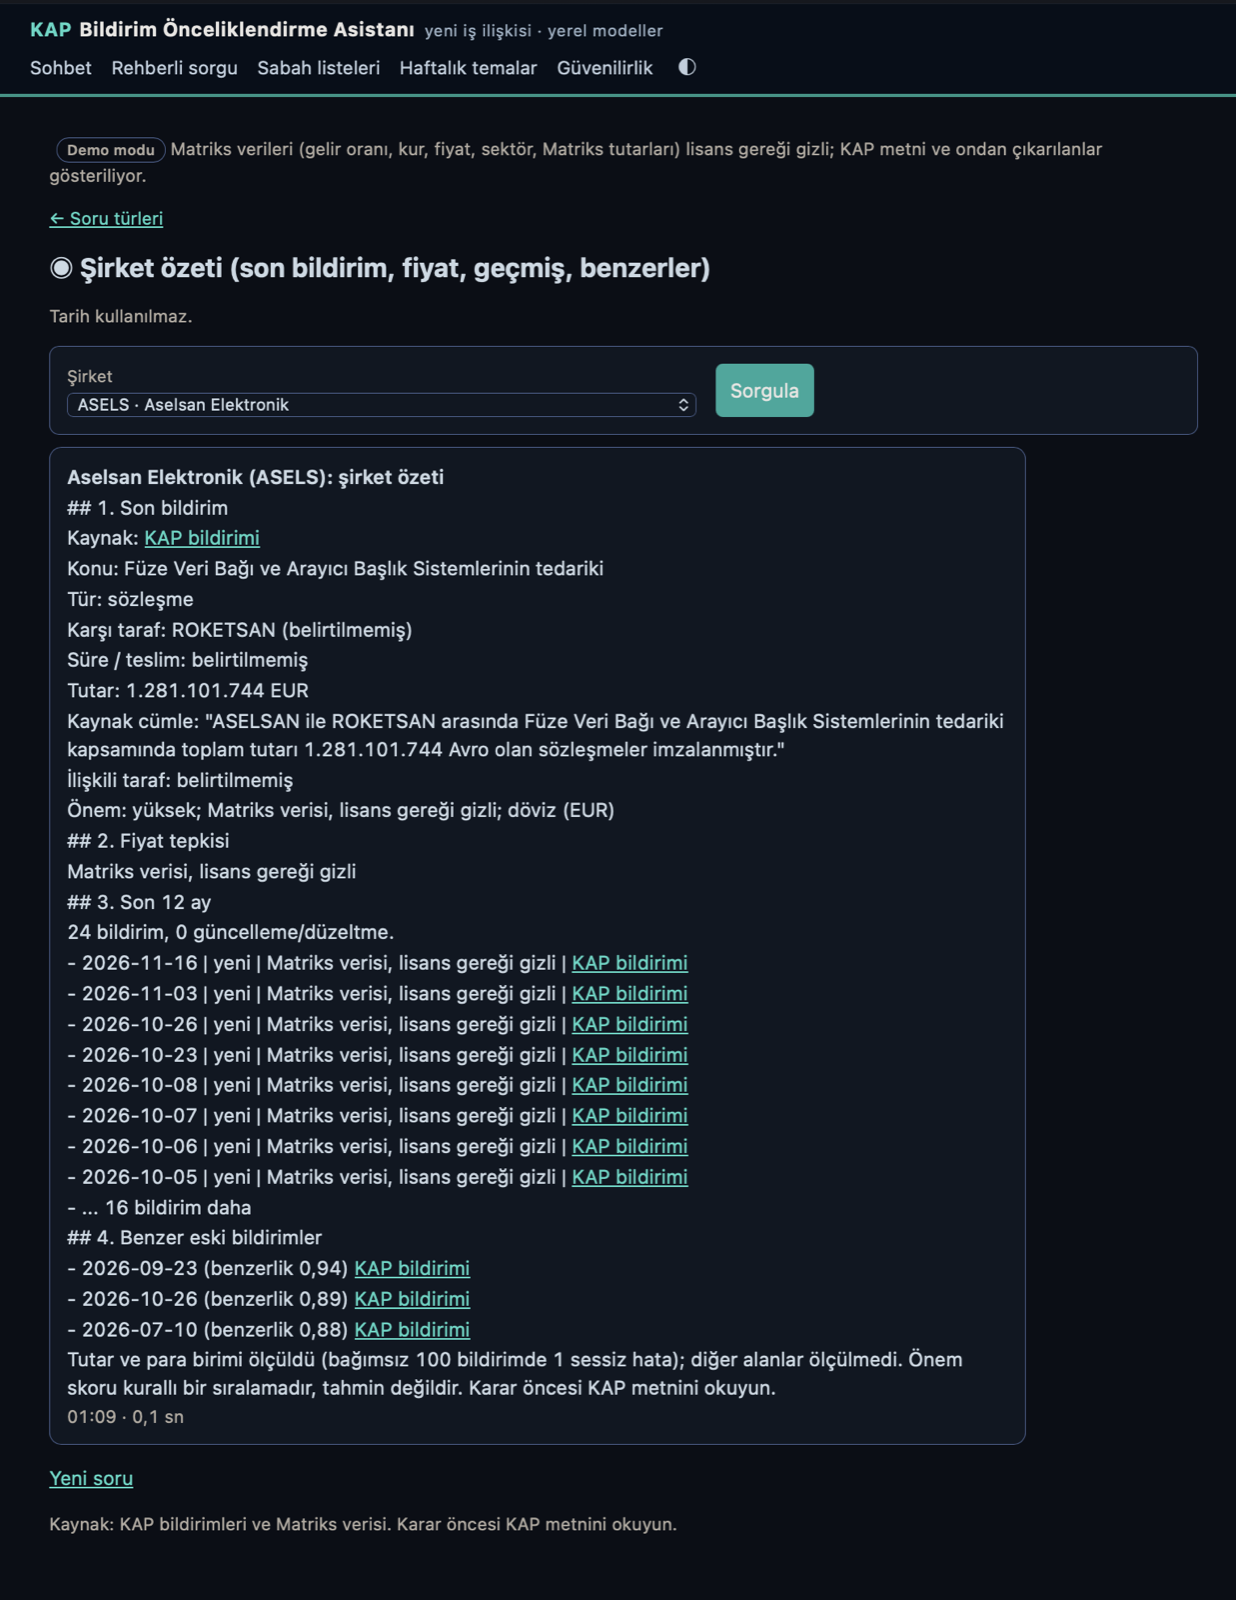
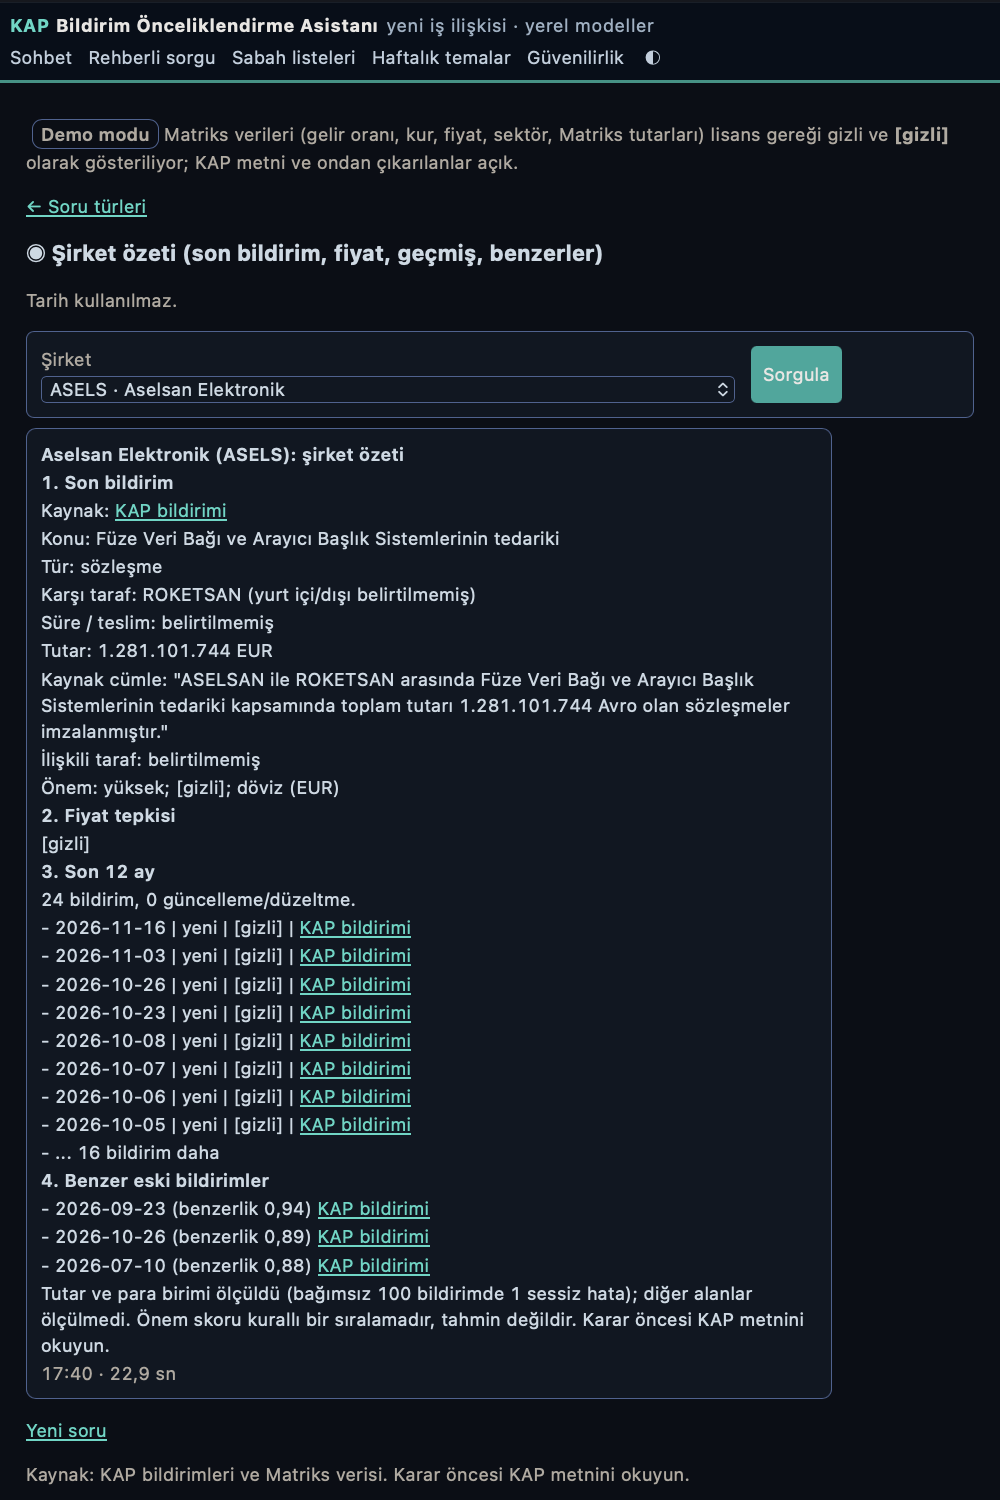
README screenshots retaken (day page, brief); chart-label halo removed (#170)

Changed region(s): [[0.0, 0.0, 1.0, 1.0], [0.713, 0.2147, 0.868, 0.3067]]

diff --git a/scripts/reliability.py b/scripts/reliability.py
@@ -77,7 +77,7 @@ def bars(rows,vmax,unit):
             out.append(f'<line x1="{end:.1f}" x2="{xu:.1f}" y1="{y+BAR/2}" y2="{y+BAR/2}" style="stroke:var(--ink);stroke-width:1.5"/>'
                        f'<line x1="{xu:.1f}" x2="{xu:.1f}" y1="{y+2}" y2="{y+BAR-2}" style="stroke:var(--ink);stroke-width:1.5"/>')
             end=xu
-        out.append(f'<text x="{end+6:.1f}" y="{y+BAR-2}" style="fill:var(--ink);font-size:12px;paint-order:stroke;stroke:var(--bg);stroke-width:4px;stroke-linejoin:round">{e(vt)}</text></g>')
+        out.append(f'<text x="{end+6:.1f}" y="{y+BAR-2}" style="fill:var(--ink);font-size:12px">{e(vt)}</text></g>')
     out.append('</svg>')
     return ''.join(out)
 
@@ -99,7 +99,7 @@ def paired(rows):
             w=max(x_of(v/n*100,100)-LABEL,2)
             out.append(f'<g><title>{e(label)}, {word}: {v}/{n} sessiz başarı</title>'
                        f'<rect x="{LABEL}" y="{yy}" width="{w:.1f}" height="{BAR}" rx="3" style="fill:{colour}"/>'
-                       f'<text x="{LABEL+w+6:.1f}" y="{yy+BAR-2}" style="fill:var(--ink);font-size:12px;paint-order:stroke;stroke:var(--bg);stroke-width:4px;stroke-linejoin:round">{v}/{n} {word}</text></g>')
+                       f'<text x="{LABEL+w+6:.1f}" y="{yy+BAR-2}" style="fill:var(--ink);font-size:12px">{v}/{n} {word}</text></g>')
     out.append('</svg>')
     return ''.join(out)
 

diff --git a/scripts/demo_mode.py b/scripts/demo_mode.py
@@ -203,7 +203,8 @@ def pages_hash(pages):
 # "kontrol edildi", Turkish review time, counterparty origin wording) changed demo-off pages on purpose (065ed4472500212a);
 # 19 Nov UI polish 2/2 ("Önce bak" box, card anchors, wider charts with label halo) again on purpose:
 # 19 Nov review fixes: reliability tile says 'proje sahibinin kör seçimi' (was 'analistin'): 92e18915f63b1d79 ->
-OFF_SHA256='324bb603b3585996'
+# 19 Nov: chart label halo removed (it drew light blobs over the labels in the dark theme): 324bb603b3585996 ->
+OFF_SHA256='aab4a6dc9387972c'
 
 
 def _self_test():

diff --git a/PROJECT_NOTES.md b/PROJECT_NOTES.md
@@ -329,6 +329,9 @@ The Turkish lira sign (₺) never appears in the collected texts: in 18 disclosu
 - Feyza asked for a UI review (companies will see it). Seven items, all approved; four small ones done now: (1) brief/chat headings ("## 1. Son bildirim") rendered as headings, not raw markdown; (2) "kontrol edildi" badge green (was red, read as an alarm); (4) review time "10 Kas 2026 00:41" instead of ISO; (5) "Karşı taraf: X (yurt içi/dışı belirtilmemiş)" instead of an ambiguous "(belirtilmemiş)". Tests added (panel 41, chat 12, agent 95). Demo-off pinned hash moved on purpose to `065ed4472500212a` (recorded in `docs/demo_mode_rule.md`); synthetic leaks 0; real-data leak check re-run by Feyza on f455293: render errors none, `LEAKS=0 -> pass`.
 - UI polish 2/2 (19 Nov afternoon, while Feyza was away): (3) demo placeholder `[gizli]` instead of the full sentence on every line, the banner explains it once; (6) "Önce bak (N)" box at the top of the day page: up to 3 look-first items (high or flagged) in the morning list's order, reasons via the cards' demo-aware path, "kontrol et: ..." for unreviewed flags, links to the cards (every card now has an anchor); (7) reliability charts up to 960 px wide (text ~1.4× larger) with a halo behind value labels so gridlines do not cross them. Panel 43 checks; demo-off hash `92e18915f63b1d79`; synthetic leaks 0. Real-data leak check re-run by Feyza after it: render errors none, `LEAKS=0 -> pass`.
 
+## 2026-11-19: README screenshots retaken; chart-label halo removed
+- Feyza retook the demo-mode screenshots after the UI polish (day page with the "Önce bak" box, ASELS brief with real headings). Her reliability screenshot showed the value labels as light blobs: the halo added in UI polish 2/2 (`stroke:var(--bg)`) draws wrong in the dark theme. Removed (labels as before, charts stay wider); demo-off hash `aab4a6dc9387972c`; reliability screenshot to be retaken.
+
 ## 2026-11-19: Public copy prepared (not published; waits for Matriks)
 - Feyza wants the code public on GitHub / LinkedIn with the daily history visible (CV). Plan: the private repo stays (instructor gets read access); a public copy with the **history kept** is built with `git filter-repo` (`docs/public_release.md`): `CLAUDE.md`, `docs/matriks_feedback.md`, `docs/matriks_prototype.md` removed from all commits; server IP, hosting name, server alias, home path replaced (patterns kept outside the repo); commit e-mail → GitHub no-reply; `.pyc` dropped. Checks over the full rewritten history: all sensitive counts 0; vendor amounts only in self-test sentences from public KAP texts; 86 self-tests pass in the copy; 164 commits, 26 Oct - 19 Nov. Copy in `~/projects/kap-public` (no remote). E-mail to Matriks (Matriks yetkilisi's thread): public code, video, data after the permission ends, an offer to share observations privately, written in a modest tone. Rebuild after the last commit, then publish only on Matriks' yes.
 

diff --git a/docs/demo_mode_rule.md b/docs/demo_mode_rule.md
@@ -43,6 +43,6 @@ Found while writing the code; needs Feyza's approval before the leak check runs.
 - Demo mode stays a display flag; it is not part of the nightly path and needs no kap-deploy change before the 26 Nov freeze.
 
 ## Result (19 Nov 2026)
-Later change (19 Nov, UI polish, display only): headings in answers, a green "kontrol edildi" badge, Turkish review time and the counterparty origin wording changed the demo-off pages on purpose; the pinned demo-off hash moved from `98f6bf3fc8ea3057` to `065ed4472500212a` (synthetic leaks still 0). Feyza re-ran `demo_leak_check.py` on f455293 (19 Nov): render errors none, `LEAKS=0 -> pass`. UI polish 2/2 (19 Nov): placeholder shortened to `[gizli]` (the banner explains it once), an "Önce bak" box on the day page (its reasons go through the same demo path as the cards), card anchors, wider charts; demo-off hash `92e18915f63b1d79`, synthetic leaks 0; real-data leak check re-run by Feyza: `LEAKS=0`. Review fixes (19 Nov): one reliability tile reworded ('proje sahibinin kör seçimi'), hash `324bb603b3585996`.
+Later change (19 Nov, UI polish, display only): headings in answers, a green "kontrol edildi" badge, Turkish review time and the counterparty origin wording changed the demo-off pages on purpose; the pinned demo-off hash moved from `98f6bf3fc8ea3057` to `065ed4472500212a` (synthetic leaks still 0). Feyza re-ran `demo_leak_check.py` on f455293 (19 Nov): render errors none, `LEAKS=0 -> pass`. UI polish 2/2 (19 Nov): placeholder shortened to `[gizli]` (the banner explains it once), an "Önce bak" box on the day page (its reasons go through the same demo path as the cards), card anchors, wider charts; demo-off hash `92e18915f63b1d79`, synthetic leaks 0; real-data leak check re-run by Feyza: `LEAKS=0`. Review fixes (19 Nov): one reliability tile reworded ('proje sahibinin kör seçimi'), hash `324bb603b3585996`. The chart-label halo of UI polish 2/2 drew light blobs over the labels in the dark theme (seen on Feyza's screenshot) and was removed: hash `aab4a6dc9387972c`.
 
 **ADOPT_DEMO_MODE, round 1.** (1) synthetic: 52 checks, leaks 0, demo-off hash unchanged (`98f6bf3fc8ea3057`); (2) real data: `LEAKS=0 -> pass` (0 render errors); (3) Feyza's visual check: clean.
